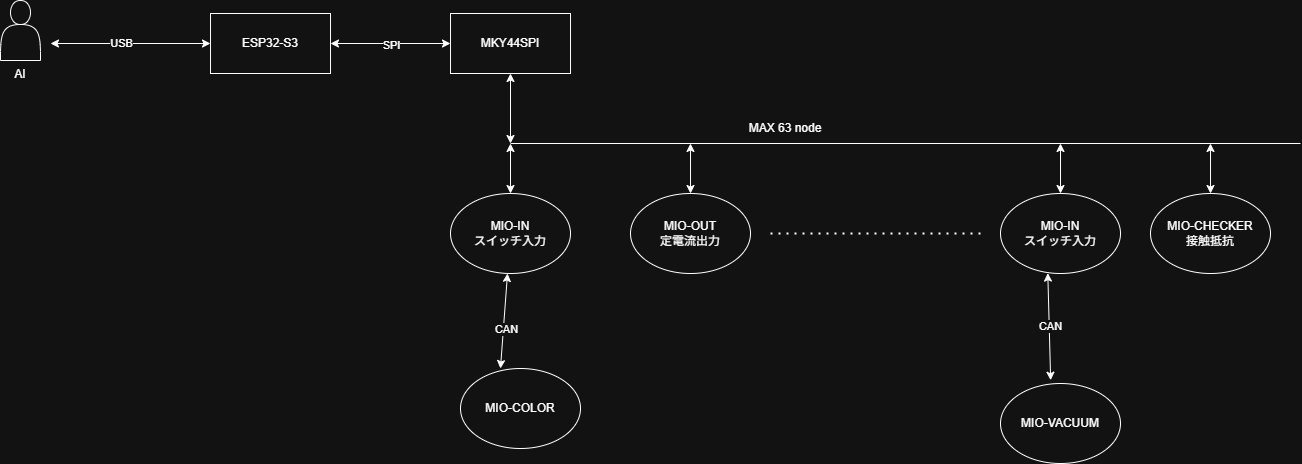
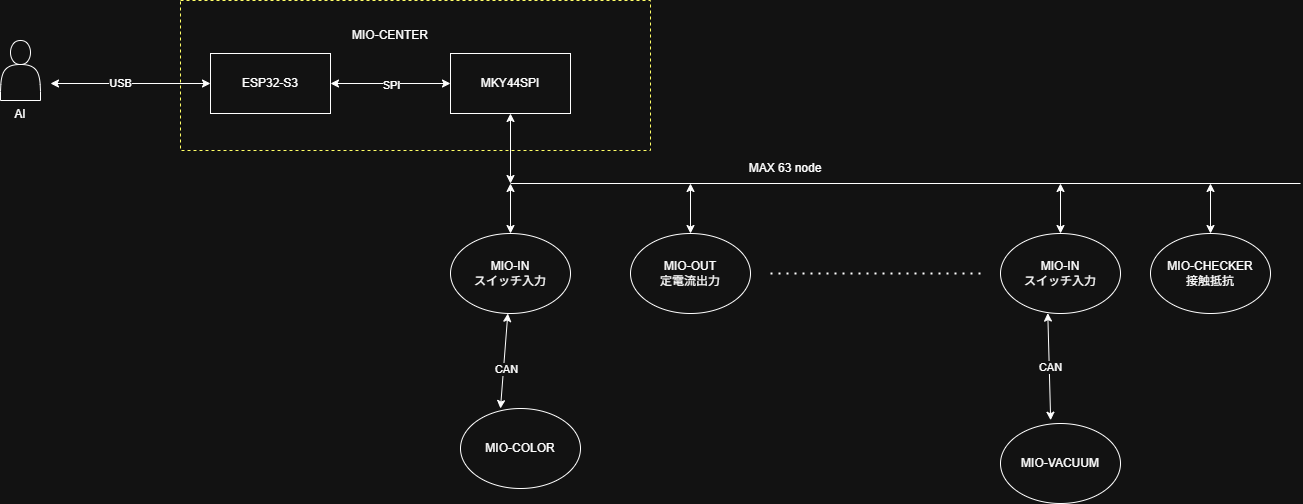
MIO-APP追加

diff --git a/public/posts/260602/post260602/index.html b/public/posts/260602/post260602/index.html
@@ -17,7 +17,17 @@
 MIOは、本システムの接頭語に値するもので、MIOシステムと称します。
 ローカルセンターCPUは、CU-NETユニバース(64ステーション単位)の上位接続ゲートウェイの立場になります。
 MIO-CENTERの内部構成は以下の通りです。
-">
+
+Rustの導入
+最近注目されているのがRustの話題です。
+LinuxやWindowsでも一部利用され始め、USA官公庁御用達になる気配があります。
+カーニハン・リッチーから学んだ者としては、なんとなく近寄りがたい感じがしますが、1999年頃からの変数イミュータブルや所有権等が盛り込まれた後発有利の言語で、今後、C&#43;&#43;から変わる可能性があります。
+MIOシステムには、ESP32やSTM32が使用されていますが、中心開発言語はC&#43;&#43;からRustに移行する予定です。
+MIO-APP
+MIO-CENTERの上位にはアプリケーションが必要になります。
+MIO-APPは、CU-NETノード及びその下にぶら下るCANノードのマッピングとデータモニターが主業務になります。
+マッピングと入出力パターンチェックはエクセルファイルが中心的存在になります。
+現在はC# WPFで開発ですが、プラットフォーム依存性を無くする為、wxWidgetやFlutterを検討しています。">
   <meta name="author" content="Michinori Ichikawa"/><script type="application/ld+json">
 {
   "@context": "https://schema.org",
@@ -88,7 +98,7 @@ MIO-CENTERの内部構成は以下の通りです。
   "dateCreated": "2026-06-02T08:00:05+09:00",
   "dateModified": "2026-06-02T08:00:05+09:00",
   "datePublished": "2026-06-02T08:00:05+09:00",
-  "description": "MIOセンター MIOは、本システムの接頭語に値するもので、MIOシステムと称します。\nローカルセンターCPUは、CU-NETユニバース(64ステーション単位)の上位接続ゲートウェイの立場になります。\nMIO-CENTERの内部構成は以下の通りです。\n",
+  "description": "MIOセンター MIOは、本システムの接頭語に値するもので、MIOシステムと称します。\nローカルセンターCPUは、CU-NETユニバース(64ステーション単位)の上位接続ゲートウェイの立場になります。\nMIO-CENTERの内部構成は以下の通りです。\nRustの導入 最近注目されているのがRustの話題です。\nLinuxやWindowsでも一部利用され始め、USA官公庁御用達になる気配があります。\nカーニハン・リッチーから学んだ者としては、なんとなく近寄りがたい感じがしますが、1999年頃からの変数イミュータブルや所有権等が盛り込まれた後発有利の言語で、今後、C++から変わる可能性があります。\nMIOシステムには、ESP32やSTM32が使用されていますが、中心開発言語はC++からRustに移行する予定です。\nMIO-APP MIO-CENTERの上位にはアプリケーションが必要になります。\nMIO-APPは、CU-NETノード及びその下にぶら下るCANノードのマッピングとデータモニターが主業務になります。\nマッピングと入出力パターンチェックはエクセルファイルが中心的存在になります。\n現在はC# WPFで開発ですが、プラットフォーム依存性を無くする為、wxWidgetやFlutterを検討しています。\n",
   "headline": "ポスト260602",
   "inLanguage": "en",
   "isPartOf": {
@@ -108,7 +118,7 @@ MIO-CENTERの内部構成は以下の通りです。
     },
     "name": "みっちゃんサイト"
   },
-  "wordCount": 4
+  "wordCount": 15
 }
 </script>
 
@@ -118,7 +128,15 @@ MIO-CENTERの内部構成は以下の通りです。
 	<meta property="og:title" content="ポスト260602">
 	<meta property="og:description" content="MIOセンター MIOは、本システムの接頭語に値するもので、MIOシステムと称します。
 ローカルセンターCPUは、CU-NETユニバース(64ステーション単位)の上位接続ゲートウェイの立場になります。
-MIO-CENTERの内部構成は以下の通りです。">
+MIO-CENTERの内部構成は以下の通りです。
+Rustの導入 最近注目されているのがRustの話題です。
+LinuxやWindowsでも一部利用され始め、USA官公庁御用達になる気配があります。
+カーニハン・リッチーから学んだ者としては、なんとなく近寄りがたい感じがしますが、1999年頃からの変数イミュータブルや所有権等が盛り込まれた後発有利の言語で、今後、C&#43;&#43;から変わる可能性があります。
+MIOシステムには、ESP32やSTM32が使用されていますが、中心開発言語はC&#43;&#43;からRustに移行する予定です。
+MIO-APP MIO-CENTERの上位にはアプリケーションが必要になります。
+MIO-APPは、CU-NETノード及びその下にぶら下るCANノードのマッピングとデータモニターが主業務になります。
+マッピングと入出力パターンチェックはエクセルファイルが中心的存在になります。
+現在はC# WPFで開発ですが、プラットフォーム依存性を無くする為、wxWidgetやFlutterを検討しています。">
 	<meta property="og:locale" content="ja_ja">
 	<meta property="og:type" content="article">
 		<meta property="article:section" content="posts">
@@ -130,7 +148,10 @@ MIO-CENTERの内部構成は以下の通りです。">
 MIOは、本システムの接頭語に値するもので、MIOシステムと称します。
 ローカルセンターCPUは、CU-NETユニバース(64ステーション単位)の上位接続ゲートウェイの立場になります。
 MIO-CENTERの内部構成は以下の通りです。
-">
+
+Rustの導入
+最近注目されているのがRustの話題です。
+LinuxやWindowsでも一部利用され始め、USA官公庁御用達になる気配があります …">
   <meta name="twitter:card" content="summary_large_image" />
 
   <link href='/img/favicon.ico' rel='icon' type='image/x-icon'/>
@@ -294,6 +315,16 @@ MIO-CENTERの内部構成は以下の通りです。
 ローカルセンターCPUは、CU-NETユニバース(64ステーション単位)の上位接続ゲートウェイの立場になります。<br>
 MIO-CENTERの内部構成は以下の通りです。<br>
 <img src="img/260602/miocenter.png" alt="センター機能"></p>
+<h1 id="rustの導入">Rustの導入</h1>
+<p>最近注目されているのがRustの話題です。<br>
+LinuxやWindowsでも一部利用され始め、USA官公庁御用達になる気配があります。<br>
+カーニハン・リッチーから学んだ者としては、なんとなく近寄りがたい感じがしますが、1999年頃からの変数イミュータブルや所有権等が盛り込まれた後発有利の言語で、今後、C++から変わる可能性があります。<br>
+MIOシステムには、ESP32やSTM32が使用されていますが、中心開発言語はC++からRustに移行する予定です。</p>
+<h1 id="mio-app">MIO-APP</h1>
+<p>MIO-CENTERの上位にはアプリケーションが必要になります。<br>
+MIO-APPは、CU-NETノード及びその下にぶら下るCANノードのマッピングとデータモニターが主業務になります。<br>
+マッピングと入出力パターンチェックはエクセルファイルが中心的存在になります。<br>
+現在はC# WPFで開発ですが、プラットフォーム依存性を無くする為、wxWidgetやFlutterを検討しています。</p>
 
           
           

diff --git a/public/index.html b/public/index.html
@@ -259,6 +259,16 @@
 ローカルセンターCPUは、CU-NETユニバース(64ステーション単位)の上位接続ゲートウェイの立場になります。<br>
 MIO-CENTERの内部構成は以下の通りです。<br>
 <img src="img/260602/miocenter.png" alt="センター機能"></p>
+<h1 id="rustの導入">Rustの導入</h1>
+<p>最近注目されているのがRustの話題です。<br>
+LinuxやWindowsでも一部利用され始め、USA官公庁御用達になる気配があります。<br>
+カーニハン・リッチーから学んだ者としては、なんとなく近寄りがたい感じがしますが、1999年頃からの変数イミュータブルや所有権等が盛り込まれた後発有利の言語で、今後、C++から変わる可能性があります。<br>
+MIOシステムには、ESP32やSTM32が使用されていますが、中心開発言語はC++からRustに移行する予定です。</p>
+<h1 id="mio-app">MIO-APP</h1>
+<p>MIO-CENTERの上位にはアプリケーションが必要になります。<br>
+MIO-APPは、CU-NETノード及びその下にぶら下るCANノードのマッピングとデータモニターが主業務になります。<br>
+マッピングと入出力パターンチェックはエクセルファイルが中心的存在になります。<br>
+現在はC# WPFで開発ですが、プラットフォーム依存性を無くする為、wxWidgetやFlutterを検討しています。</p>
 
         
     </div>

diff --git a/public/posts/index.html b/public/posts/index.html
@@ -233,6 +233,16 @@
 ローカルセンターCPUは、CU-NETユニバース(64ステーション単位)の上位接続ゲートウェイの立場になります。<br>
 MIO-CENTERの内部構成は以下の通りです。<br>
 <img src="img/260602/miocenter.png" alt="センター機能"></p>
+<h1 id="rustの導入">Rustの導入</h1>
+<p>最近注目されているのがRustの話題です。<br>
+LinuxやWindowsでも一部利用され始め、USA官公庁御用達になる気配があります。<br>
+カーニハン・リッチーから学んだ者としては、なんとなく近寄りがたい感じがしますが、1999年頃からの変数イミュータブルや所有権等が盛り込まれた後発有利の言語で、今後、C++から変わる可能性があります。<br>
+MIOシステムには、ESP32やSTM32が使用されていますが、中心開発言語はC++からRustに移行する予定です。</p>
+<h1 id="mio-app">MIO-APP</h1>
+<p>MIO-CENTERの上位にはアプリケーションが必要になります。<br>
+MIO-APPは、CU-NETノード及びその下にぶら下るCANノードのマッピングとデータモニターが主業務になります。<br>
+マッピングと入出力パターンチェックはエクセルファイルが中心的存在になります。<br>
+現在はC# WPFで開発ですが、プラットフォーム依存性を無くする為、wxWidgetやFlutterを検討しています。</p>
 
         
     </div>

diff --git a/content/posts/260602/post260602.md b/content/posts/260602/post260602.md
@@ -3,16 +3,27 @@ date = '2026-06-02T08:00:05+09:00'
 draft = false
 title = 'ポスト260602'
 +++
+
 # MIOセンター
+
 MIOは、本システムの接頭語に値するもので、MIOシステムと称します。  
 ローカルセンターCPUは、CU-NETユニバース(64ステーション単位)の上位接続ゲートウェイの立場になります。  
 MIO-CENTERの内部構成は以下の通りです。  
 ![センター機能](img/260602/miocenter.png)
 
 # Rustの導入
-最近注目されているのがRustの話題です。 
-LinuxやWindowsでも一部利用され始め、USA御用達になる気配があります。  
+
+最近注目されているのがRustの話題です。  
+LinuxやWindowsでも一部利用され始め、USA官公庁御用達になる気配があります。  
 カーニハン・リッチーから学んだ者としては、なんとなく近寄りがたい感じがしますが、1999年頃からの変数イミュータブルや所有権等が盛り込まれた後発有利の言語で、今後、C++から変わる可能性があります。  
 MIOシステムには、ESP32やSTM32が使用されていますが、中心開発言語はC++からRustに移行する予定です。  
+
+# MIO-APP
+
+MIO-CENTERの上位にはアプリケーションが必要になります。  
+MIO-APPは、CU-NETノード及びその下にぶら下るCANノードのマッピングとデータモニターが主業務になります。  
+マッピングと入出力パターンチェックはエクセルファイルが中心的存在になります。  
+現在はC# WPFで開発ですが、プラットフォーム依存性を無くする為、wxWidgetやFlutterを検討しています。  
+
 
 